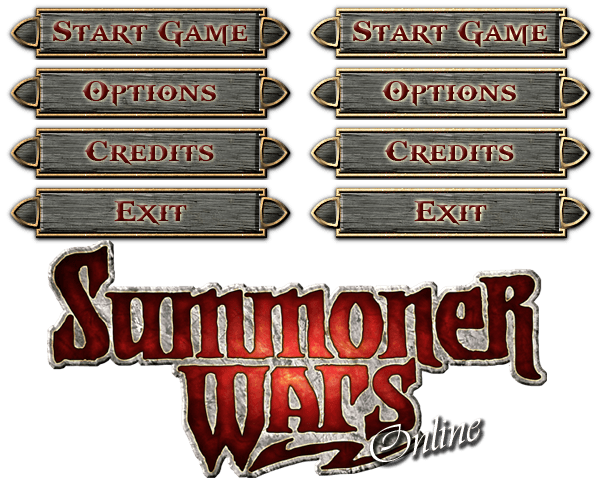
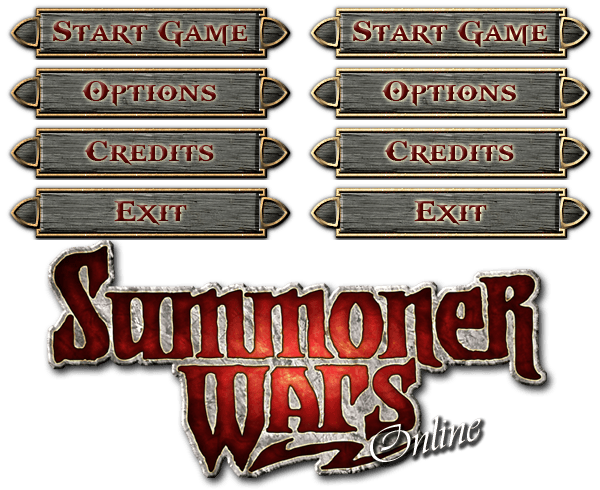
abc

diff --git a/game.js b/game.js
@@ -55,7 +55,7 @@ var menu = new (function () {
     //logo settings
     that.logo_src_y = 240; //logo source y coordinate (x = 0)
     that.logo_width = 600; //logo width
-    that.logo_height = 238; //logo height
+    that.logo_height = 250; //logo height
 
     that.b_width = 300; //button width
     that.b_height = 60;  //button height
